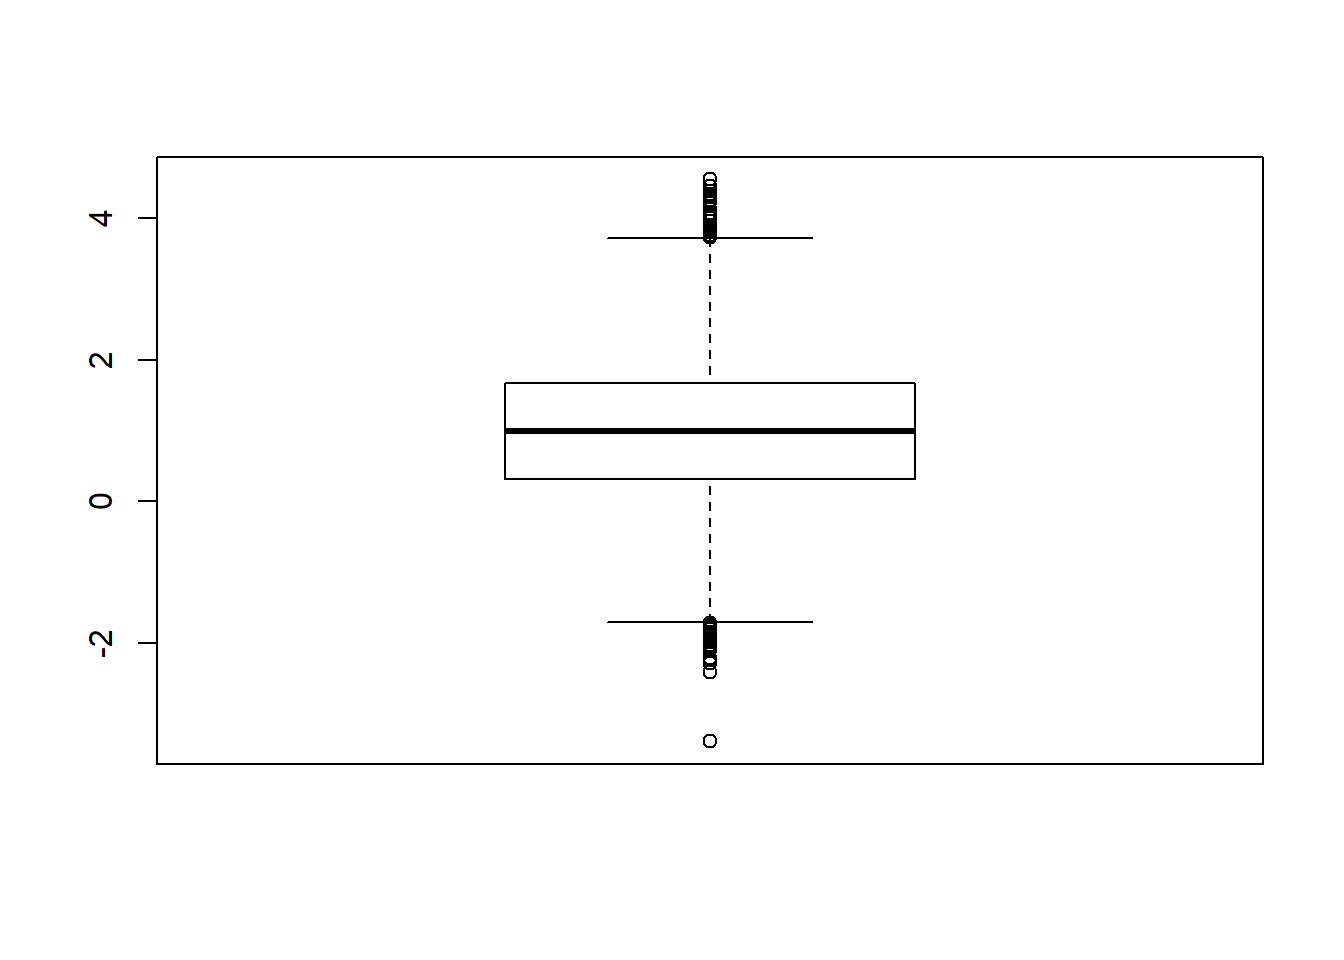
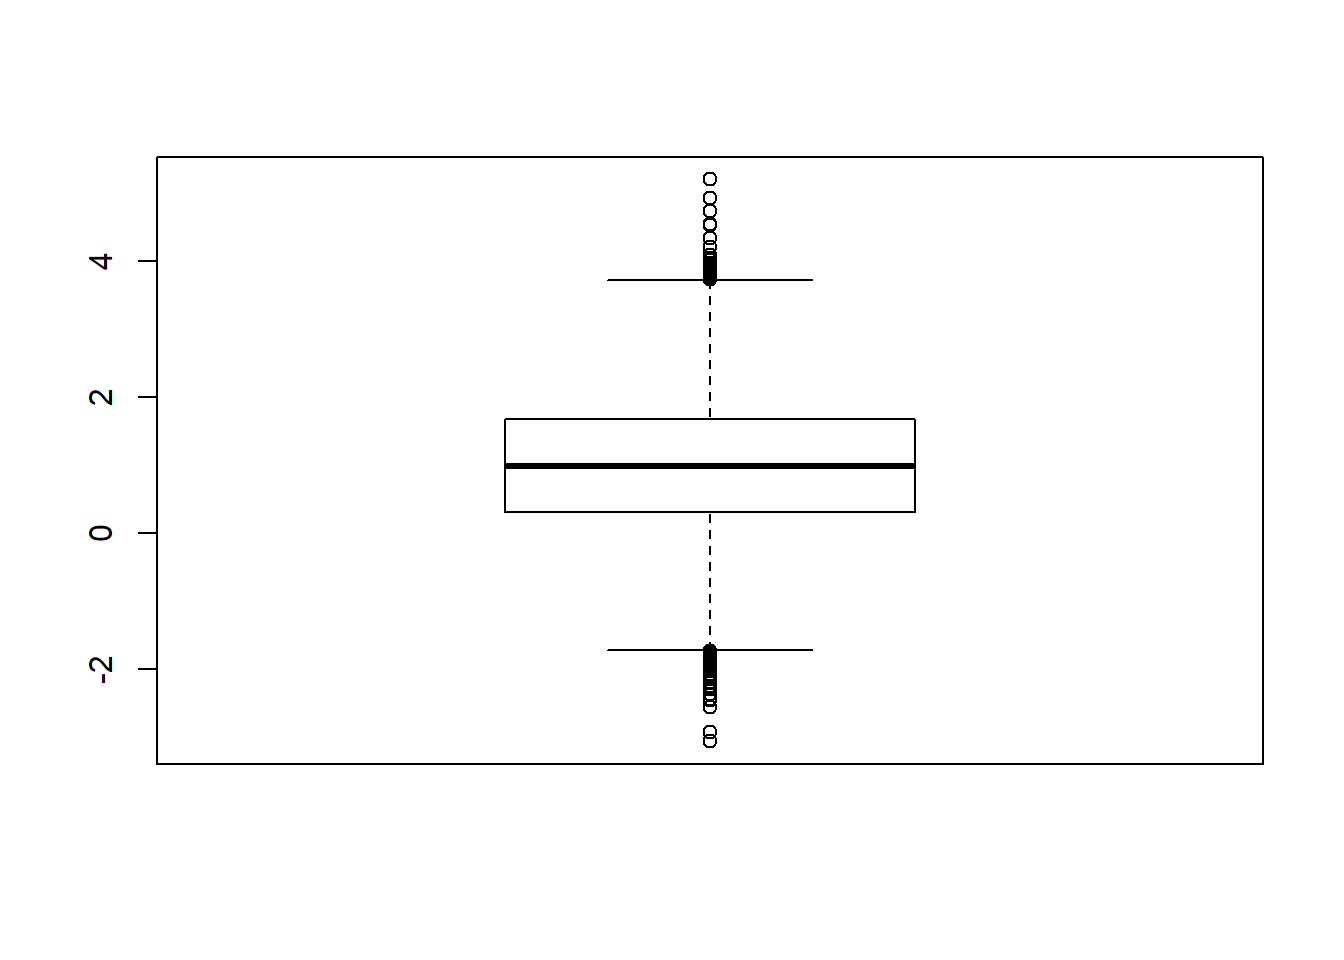
ijb

diff --git a/content/post/2019-05-10-comando-basicos-r.html b/content/post/2019-05-10-comando-basicos-r.html
@@ -1,14 +1,3 @@
----
-title: Introdução ao R e comandos básicos
-author: Lucas Jordão
-date: '2019-05-10'
-slug: comando-basicos-r
-categories: []
-tags: []
-image:
-  caption: ''
-  focal_point: ''
----
 
 <div id="TOC">
 <ul>
@@ -46,14 +35,12 @@ image:
 <li><a href="#operadores-de-logica">Operadores de lógica</a></li>
 <li><a href="#funcoes-if-e-else">Funções <code>if</code> e <code>else</code></a></li>
 <li><a href="#funcao-for">Função <code>for</code></a></li>
-<li><a href="#ou">…ou</a></li>
 </ul></li>
 <li><a href="#gerando-numeros-aleatorios-e-amostragem">Gerando números aleatórios e amostragem</a><ul>
 <li><a href="#histograma">Histograma</a></li>
 <li><a href="#grafico-de-dispersao">Gráfico de dispersão</a></li>
 <li><a href="#barplot">Barplot</a></li>
 <li><a href="#boxplot">Boxplot</a></li>
-<li><a href="#torta">Torta</a></li>
 </ul></li>
 </ul>
 </div>
@@ -244,7 +231,7 @@ Auckland, ajudaram Ross Ihaka a desenvolver a versão para Macintosh.</p>
 ## cite it when using it for data analysis. See also
 ## &#39;citation(&quot;pkgname&quot;)&#39; for citing R packages.</code></pre>
 <pre class="r"><code>Sys.time()                  # obtém data e hora exata do sistema</code></pre>
-<pre><code>## [1] &quot;2019-05-17 16:13:53 -03&quot;</code></pre>
+<pre><code>## [1] &quot;2019-05-17 16:17:59 -03&quot;</code></pre>
 </div>
 <div id="operadores-simples-e-funcoes-matematicas" class="section level2">
 <h2>Operadores simples e funções matemáticas</h2>
@@ -560,119 +547,7 @@ cores</code></pre>
 <pre><code>## [1] &quot;function&quot;</code></pre>
 <pre class="r"><code>class(class)</code></pre>
 <pre><code>## [1] &quot;function&quot;</code></pre>
-<pre class="r"><code>jim &lt;- list(height = 2.54 * 12 * 6/100, weight = 180/2.2, name = &quot;James&quot;)
-jim</code></pre>
-<pre><code>## $height
-## [1] 1.8288
-## 
-## $weight
-## [1] 81.81818
-## 
-## $name
-## [1] &quot;James&quot;</code></pre>
-<pre class="r"><code>mode(jim)</code></pre>
-<pre><code>## [1] &quot;list&quot;</code></pre>
-<pre class="r"><code>class(jim)</code></pre>
-<pre><code>## [1] &quot;list&quot;</code></pre>
-<pre class="r"><code>typeof(jim)</code></pre>
-<pre><code>## [1] &quot;list&quot;</code></pre>
-<pre class="r"><code>length(jim)</code></pre>
-<pre><code>## [1] 3</code></pre>
-<pre class="r"><code>df &lt;- data.frame(A = 1,
-                 B = as.Date(&quot;2019-04-05&quot;),
-                 C = c(&quot;alfa&quot;,&quot;beta&quot;,&quot;gama&quot;,&quot;delta&quot;))
-df</code></pre>
-<pre><code>##   A          B     C
-## 1 1 2019-04-05  alfa
-## 2 1 2019-04-05  beta
-## 3 1 2019-04-05  gama
-## 4 1 2019-04-05 delta</code></pre>
-<pre class="r"><code>mode(df)</code></pre>
-<pre><code>## [1] &quot;list&quot;</code></pre>
-<pre class="r"><code>class(df)</code></pre>
-<pre><code>## [1] &quot;data.frame&quot;</code></pre>
-<pre class="r"><code>typeof(df)</code></pre>
-<pre><code>## [1] &quot;list&quot;</code></pre>
-<pre class="r"><code>sapply(df, mode)</code></pre>
-<pre><code>##         A         B         C 
-## &quot;numeric&quot; &quot;numeric&quot; &quot;numeric&quot;</code></pre>
-<pre class="r"><code>sapply(df, class)</code></pre>
-<pre><code>##         A         B         C 
-## &quot;numeric&quot;    &quot;Date&quot;  &quot;factor&quot;</code></pre>
-<pre class="r"><code>sapply(df, typeof)</code></pre>
-<pre><code>##         A         B         C 
-##  &quot;double&quot;  &quot;double&quot; &quot;integer&quot;</code></pre>
-<pre class="r"><code>length(df)</code></pre>
-<pre><code>## [1] 3</code></pre>
-<pre class="r"><code>a &lt;- 1:20
-a</code></pre>
-<pre><code>##  [1]  1  2  3  4  5  6  7  8  9 10 11 12 13 14 15 16 17 18 19 20</code></pre>
-<pre class="r"><code>mode(a)</code></pre>
-<pre><code>## [1] &quot;numeric&quot;</code></pre>
-<pre class="r"><code>class(a)</code></pre>
-<pre><code>## [1] &quot;integer&quot;</code></pre>
-<pre class="r"><code>typeof(a)</code></pre>
-<pre><code>## [1] &quot;integer&quot;</code></pre>
-<pre class="r"><code>sapply(a, mode)</code></pre>
-<pre><code>##  [1] &quot;numeric&quot; &quot;numeric&quot; &quot;numeric&quot; &quot;numeric&quot; &quot;numeric&quot; &quot;numeric&quot; &quot;numeric&quot;
-##  [8] &quot;numeric&quot; &quot;numeric&quot; &quot;numeric&quot; &quot;numeric&quot; &quot;numeric&quot; &quot;numeric&quot; &quot;numeric&quot;
-## [15] &quot;numeric&quot; &quot;numeric&quot; &quot;numeric&quot; &quot;numeric&quot; &quot;numeric&quot; &quot;numeric&quot;</code></pre>
-<pre class="r"><code>sapply(a, class)</code></pre>
-<pre><code>##  [1] &quot;integer&quot; &quot;integer&quot; &quot;integer&quot; &quot;integer&quot; &quot;integer&quot; &quot;integer&quot; &quot;integer&quot;
-##  [8] &quot;integer&quot; &quot;integer&quot; &quot;integer&quot; &quot;integer&quot; &quot;integer&quot; &quot;integer&quot; &quot;integer&quot;
-## [15] &quot;integer&quot; &quot;integer&quot; &quot;integer&quot; &quot;integer&quot; &quot;integer&quot; &quot;integer&quot;</code></pre>
-<pre class="r"><code>sapply(a, typeof)</code></pre>
-<pre><code>##  [1] &quot;integer&quot; &quot;integer&quot; &quot;integer&quot; &quot;integer&quot; &quot;integer&quot; &quot;integer&quot; &quot;integer&quot;
-##  [8] &quot;integer&quot; &quot;integer&quot; &quot;integer&quot; &quot;integer&quot; &quot;integer&quot; &quot;integer&quot; &quot;integer&quot;
-## [15] &quot;integer&quot; &quot;integer&quot; &quot;integer&quot; &quot;integer&quot; &quot;integer&quot; &quot;integer&quot;</code></pre>
-<pre class="r"><code>length(a)</code></pre>
-<pre><code>## [1] 20</code></pre>
-<pre class="r"><code>matrix &lt;- matrix(1:12, ncol = 4)
-matrix</code></pre>
-<pre><code>##      [,1] [,2] [,3] [,4]
-## [1,]    1    4    7   10
-## [2,]    2    5    8   11
-## [3,]    3    6    9   12</code></pre>
-<pre class="r"><code>mode(matrix)</code></pre>
-<pre><code>## [1] &quot;numeric&quot;</code></pre>
-<pre class="r"><code>class(matrix)</code></pre>
-<pre><code>## [1] &quot;matrix&quot;</code></pre>
-<pre class="r"><code>typeof(matrix)</code></pre>
-<pre><code>## [1] &quot;integer&quot;</code></pre>
-<pre class="r"><code>sapply(matrix, mode)</code></pre>
-<pre><code>##  [1] &quot;numeric&quot; &quot;numeric&quot; &quot;numeric&quot; &quot;numeric&quot; &quot;numeric&quot; &quot;numeric&quot; &quot;numeric&quot;
-##  [8] &quot;numeric&quot; &quot;numeric&quot; &quot;numeric&quot; &quot;numeric&quot; &quot;numeric&quot;</code></pre>
-<pre class="r"><code>sapply(matrix, class)</code></pre>
-<pre><code>##  [1] &quot;integer&quot; &quot;integer&quot; &quot;integer&quot; &quot;integer&quot; &quot;integer&quot; &quot;integer&quot; &quot;integer&quot;
-##  [8] &quot;integer&quot; &quot;integer&quot; &quot;integer&quot; &quot;integer&quot; &quot;integer&quot;</code></pre>
-<pre class="r"><code>sapply(matrix, typeof)</code></pre>
-<pre><code>##  [1] &quot;integer&quot; &quot;integer&quot; &quot;integer&quot; &quot;integer&quot; &quot;integer&quot; &quot;integer&quot; &quot;integer&quot;
-##  [8] &quot;integer&quot; &quot;integer&quot; &quot;integer&quot; &quot;integer&quot; &quot;integer&quot;</code></pre>
-<pre class="r"><code>dim(matrix)</code></pre>
-<pre><code>## [1] 3 4</code></pre>
-<pre class="r"><code>length(matrix)</code></pre>
-<pre><code>## [1] 12</code></pre>
 <hr />
-<p>#Funções vetoriais
-max(x) # valor máximo em x
-min(x) # valor mínimo em x
-sum(x) # soma todos os valores em x
-mean(x) # média de todos os valores em x
-median(x) # mediana de todos os valores em x
-range(x) # vetor do min(x) e max(x)
-var(x) # variância de todos os valores em x
-cor(x,y) # correlação entre vetores x e y
-quantile(x) # Quantil de todos os valores em x</p>
-<p>#Funções matriciais
-t(x) # matriz transposta
-dim() # dimensão da matriz
-det() # determinante da matriz</p>
-<p>dim(x) #mostra as dimensões de uma tabela ou matriz
-head(x) #mostra as n (‘6’) primeiras linhas de uma tabela ou matriz
-tail(x) #mostra as n (‘6’) últimas linhas de uma tabela ou matriz
-nrow(x) #Número de linhas da matriz
-ncol(x) #Número de colunas da matriz
-attr(x)</p>
 </div>
 </div>
 <div id="operadores-de-logica" class="section level2">
@@ -702,7 +577,7 @@ x &lt;- 1
 if(x == 1) {
   Sys.time()
 }</code></pre>
-<pre><code>## [1] &quot;2019-05-17 16:13:58 -03&quot;</code></pre>
+<pre><code>## [1] &quot;2019-05-17 16:18:01 -03&quot;</code></pre>
 <pre class="r"><code>if(x &lt; 0) {
   sinal &lt;- &quot;negativo&quot;
 } else if(x == 0) {
@@ -722,9 +597,7 @@ for(i in 1:10) {
 }
 soma</code></pre>
 <pre><code>## [1] 55</code></pre>
-</div>
-<div id="ou" class="section level2">
-<h2>…ou</h2>
+<p>…ou</p>
 <pre class="r"><code>sum(x)</code></pre>
 <pre><code>## [1] 55</code></pre>
 <hr />
@@ -733,49 +606,46 @@ soma</code></pre>
 <div id="gerando-numeros-aleatorios-e-amostragem" class="section level1">
 <h1>Gerando números aleatórios e amostragem</h1>
 <pre class="r"><code>runif(100)        # Gera números aleatórios entre 0 e 1 com distribuição uniforme</code></pre>
-<pre><code>##   [1] 0.082649142 0.417850494 0.389210950 0.763832081 0.616453680
-##   [6] 0.161045375 0.678858826 0.902790038 0.669040652 0.976240286
-##  [11] 0.272602898 0.408134709 0.989616510 0.613983454 0.399987846
-##  [16] 0.813949792 0.339496232 0.426381685 0.355334206 0.880409972
-##  [21] 0.832776689 0.273102181 0.056613398 0.062212452 0.612899979
-##  [26] 0.354671733 0.636587637 0.365652347 0.736456301 0.355534637
-##  [31] 0.274204258 0.871869775 0.999844891 0.207132641 0.341782578
-##  [36] 0.870432239 0.418430418 0.159529056 0.631471013 0.038203323
-##  [41] 0.377178013 0.540504308 0.593735996 0.171723120 0.620287489
-##  [46] 0.245906815 0.346529554 0.205532257 0.741361997 0.967862823
-##  [51] 0.809409880 0.269694848 0.913356497 0.190055052 0.154407157
-##  [56] 0.792386576 0.444227117 0.458759071 0.028063324 0.808460371
-##  [61] 0.251389970 0.916606287 0.279672839 0.260813242 0.951030388
-##  [66] 0.778430200 0.761171892 0.554020206 0.008824185 0.045448863
-##  [71] 0.525382486 0.723180536 0.928989295 0.694210938 0.944115055
-##  [76] 0.487825819 0.304026563 0.316686224 0.085552889 0.550052180
-##  [81] 0.985275859 0.870679970 0.069642018 0.833439056 0.462384790
-##  [86] 0.359100436 0.744401247 0.089952030 0.834975719 0.297038046
-##  [91] 0.510012509 0.060932516 0.212686423 0.704501283 0.784909327
-##  [96] 0.585669415 0.662780335 0.820114641 0.529839737 0.108755311</code></pre>
+<pre><code>##   [1] 0.51951156 0.53669970 0.76613089 0.13193035 0.04209001 0.26513849
+##   [7] 0.85563163 0.07860198 0.64719353 0.26192560 0.94095508 0.77364049
+##  [13] 0.36152431 0.09765374 0.10455972 0.41655126 0.85826713 0.23454687
+##  [19] 0.68964719 0.31869832 0.45192567 0.60158701 0.57479460 0.33861790
+##  [25] 0.41250374 0.79985229 0.40601921 0.95350744 0.81657974 0.13194653
+##  [31] 0.17905628 0.68451414 0.93290232 0.93091019 0.47369520 0.18928526
+##  [37] 0.88012008 0.66794558 0.05033807 0.78631380 0.41136511 0.67497550
+##  [43] 0.63702421 0.99910380 0.47438358 0.41979126 0.36544938 0.47516007
+##  [49] 0.04767281 0.52660686 0.98689155 0.10551797 0.11219661 0.25536503
+##  [55] 0.37768973 0.54258945 0.01405046 0.70324319 0.01592879 0.53251880
+##  [61] 0.09223874 0.66020505 0.26830871 0.86116170 0.52584308 0.95399625
+##  [67] 0.69477224 0.90812086 0.64784712 0.52814884 0.87954792 0.83454012
+##  [73] 0.66791685 0.72255330 0.44403095 0.86569329 0.23630557 0.89923524
+##  [79] 0.15667940 0.22549820 0.68057761 0.58606732 0.93927753 0.26033390
+##  [85] 0.45133051 0.24471948 0.90483975 0.57805209 0.65817799 0.88060948
+##  [91] 0.39534269 0.73817939 0.31920074 0.68206697 0.51117462 0.09751285
+##  [97] 0.11400458 0.91666364 0.29290052 0.24176815</code></pre>
 <pre class="r"><code>rnorm(100)        # Gera números aleatórios com distribuição normal</code></pre>
-<pre><code>##   [1] -0.754720855 -0.144350186 -0.539068129 -0.176370131 -0.506059219
-##   [6]  0.528824279 -0.177157647  1.978152016 -0.648623831  0.739391403
-##  [11]  0.622762730 -1.058005762 -1.159584952 -1.438670449  1.306092684
-##  [16] -0.213436531 -0.053254414  1.885817795  1.022447111  0.003248621
-##  [21]  0.582307957 -0.682471951 -0.992597750  0.693260680  0.895252523
-##  [26]  1.340167890  1.687589499  0.642141105  0.558417349  0.929164681
-##  [31] -0.068628047  0.267052159  1.312302206 -0.735662737  0.293013010
-##  [36] -0.018013178 -0.700276947 -0.288716014 -0.317601767  0.809746977
-##  [41] -0.699729691  0.326097042  0.510930667 -0.899628542 -0.045460019
-##  [46] -0.535222665  0.043351825 -1.949453130  0.699453819 -0.700443470
-##  [51]  0.141268602  0.894014196 -1.698412782  1.408327146  0.064111747
-##  [56]  0.041831494  1.027974493 -1.131439164  0.559976026  0.227899451
-##  [61]  0.521521377  0.117924399 -1.400721421 -0.626253092 -0.058085054
-##  [66]  0.034804849  0.343091046  0.804686696 -0.141706459  1.161491906
-##  [71]  0.543468564  0.888006894 -0.990492647  0.609989450 -0.127558887
-##  [76]  0.249993069 -0.503580349 -0.445591340  0.653699900  1.229825075
-##  [81] -0.478921297  0.889056916 -0.820399354  0.597186863  0.691471338
-##  [86]  1.405500474  0.066829743 -0.784162778 -0.475789132 -0.329869861
-##  [91] -0.555384560 -1.410871283  1.099429535  1.620768536  1.298512137
-##  [96] -0.910929470 -0.670047463 -2.214134023  0.209146475  0.792631421</code></pre>
+<pre><code>##   [1] -1.10065174  2.04897414  0.10122900  0.88260993  0.07635847
+##   [6] -0.76620178  0.72250593 -1.62855630 -1.22404901  1.12778181
+##  [11] -0.95153565  0.53910556 -0.79912811 -0.27014570  0.96936207
+##  [16] -1.29227297 -0.60001393 -0.19875789  0.49638780 -0.76821864
+##  [21] -1.26782151  0.62065775 -0.76582658 -0.14863140  0.93662934
+##  [26] -0.23656623 -3.18143288  1.43437502  1.44357355 -1.46827601
+##  [31] -1.42634903 -0.77328626 -0.47906809  0.33429118  0.71481088
+##  [36] -0.48922870  0.72201755 -0.41789484 -0.61526870  1.43684871
+##  [41] -1.70363349 -0.33454421 -0.93255244  1.28573780 -1.07373878
+##  [46] -1.14473969 -0.07414602  0.33806552 -0.94102444  0.23473911
+##  [51] -1.15396403 -0.10196288 -0.06833394  0.33274141 -0.79249821
+##  [56] -0.47524274  0.23396483  0.59751545 -0.94645197 -0.95178663
+##  [61] -0.55487268 -0.96812844  0.15753973 -0.97734371 -1.08251176
+##  [66] -0.18163508 -0.12768699  0.34790920  0.27406202  2.25506714
+##  [71]  0.25893419 -1.20277815  1.49741109 -0.11192608  1.47178728
+##  [76]  1.01039053 -0.34730266 -0.40494105  0.97876874  0.91573928
+##  [81] -1.06856501 -0.91048701  0.90283676 -0.82850796 -0.45040048
+##  [86]  1.98379257  0.47584620 -1.29662067  0.58109213  0.92806231
+##  [91] -1.40627699  0.03925891 -0.23283157 -1.24663657  0.54791898
+##  [96]  0.68018247 -1.61962049 -0.08457963  1.68159408  2.15245705</code></pre>
 <pre class="r"><code>sample(1:100, 4)  # Amostragem</code></pre>
-<pre><code>## [1] 79 84  1 86</code></pre>
+<pre><code>## [1]  9 64 80 97</code></pre>
 <div id="histograma" class="section level2">
 <h2>Histograma</h2>
 <pre class="r"><code>x &lt;- rnorm(n=10000, mean=1, sd=1)
@@ -796,9 +666,5 @@ hist(x, nclass = 40)</code></pre>
 <h2>Boxplot</h2>
 <pre class="r"><code>boxplot(x)</code></pre>
 <p><img src="2019-05-10-comando-basicos-r_files/figure-html/boxplot-1.png" width="672" /></p>
-</div>
-<div id="torta" class="section level2">
-<h2>Torta</h2>
-<p>pie(x)</p>
 </div>
 </div>
